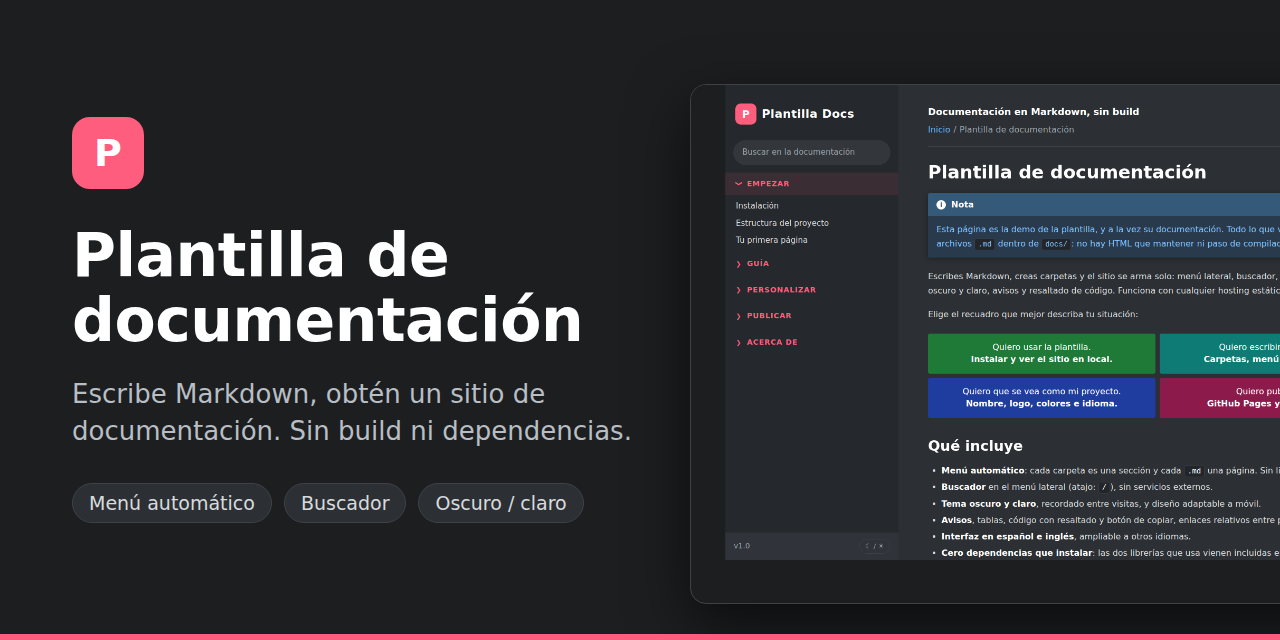
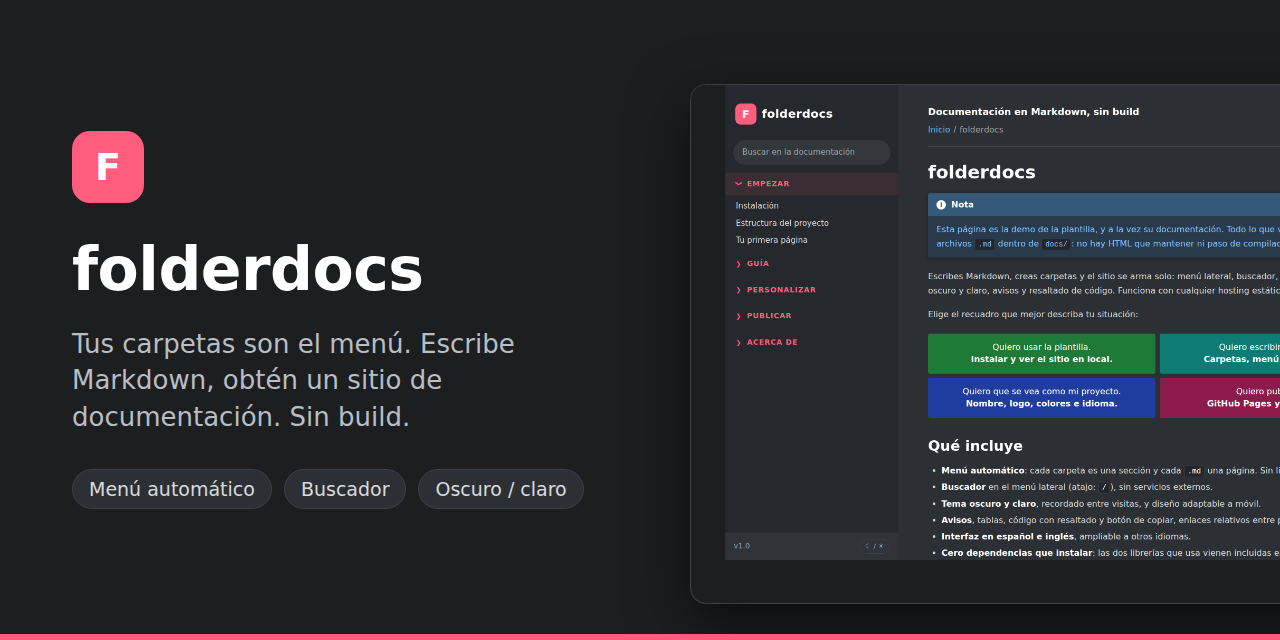
Renombra el proyecto a folderdocs
Actualiza el nombre y las URL en README, package.json, index.html,
configuración, documentación de la demo, CHANGELOG, CONTRIBUTING y las
plantillas de incidencias. Regenera las capturas y la imagen para redes.

diff --git a/index.html b/index.html
@@ -3,17 +3,17 @@
 <head>
   <meta charset="utf-8">
   <meta name="viewport" content="width=device-width, initial-scale=1">
-  <title>Plantilla de documentación en Markdown</title>
-  <meta name="description" content="Plantilla de documentación estática en Markdown: sin build ni dependencias, menú automático a partir de carpetas, buscador y modo oscuro/claro. Lista para GitHub Pages.">
+  <title>folderdocs: documentación en Markdown sin build</title>
+  <meta name="description" content="folderdocs es una plantilla de documentación estática en Markdown: sin build ni dependencias, menú automático a partir de carpetas, buscador y modo oscuro/claro. Lista para GitHub Pages.">
   <meta name="theme-color" content="#25282c">
   <link rel="icon" type="image/svg+xml" href="assets/img/favicon.svg">
 
   <!-- Al publicar tu sitio, cambia estas URL por las de tu dominio -->
   <meta property="og:type" content="website">
-  <meta property="og:title" content="Plantilla de documentación en Markdown">
+  <meta property="og:title" content="folderdocs: documentación en Markdown sin build">
   <meta property="og:description" content="Escribe archivos .md y obtén un sitio de documentación con menú automático, buscador y tema oscuro/claro. Sin build.">
-  <meta property="og:url" content="https://jrcesara7-bit.github.io/plantilla-documentacion/">
-  <meta property="og:image" content="https://jrcesara7-bit.github.io/plantilla-documentacion/assets/img/social-preview.png">
+  <meta property="og:url" content="https://jrcesara7-bit.github.io/folderdocs/">
+  <meta property="og:image" content="https://jrcesara7-bit.github.io/folderdocs/assets/img/social-preview.png">
   <meta name="twitter:card" content="summary_large_image">
 
   <link rel="stylesheet" href="assets/css/theme.css">

diff --git a/README.md b/README.md
@@ -1,14 +1,14 @@
 <div align="center">
 
-# Plantilla de documentación
+# folderdocs
 
-**Escribe archivos Markdown y obtén un sitio de documentación con menú automático, buscador y tema oscuro/claro. Sin build y sin dependencias que instalar.**
+**Plantilla de documentación en Markdown. Tus carpetas son el menú: escribe archivos y obtén un sitio con buscador y tema oscuro/claro. Sin build y sin dependencias que instalar.**
 
-[![CI](https://github.com/jrcesara7-bit/plantilla-documentacion/actions/workflows/ci.yml/badge.svg)](https://github.com/jrcesara7-bit/plantilla-documentacion/actions/workflows/ci.yml)
+[![CI](https://github.com/jrcesara7-bit/folderdocs/actions/workflows/ci.yml/badge.svg)](https://github.com/jrcesara7-bit/folderdocs/actions/workflows/ci.yml)
 [![Licencia: MIT](https://img.shields.io/badge/licencia-MIT-blue.svg)](LICENSE)
 ![Node 18+](https://img.shields.io/badge/node-%E2%89%A518-339933)
 
-[**Ver demo**](https://jrcesara7-bit.github.io/plantilla-documentacion/) · [Documentación](https://jrcesara7-bit.github.io/plantilla-documentacion/#/empezar/01-instalacion) · [Reportar un error](https://github.com/jrcesara7-bit/plantilla-documentacion/issues/new/choose) · [English](README.en.md)
+[**Ver demo**](https://jrcesara7-bit.github.io/folderdocs/) · [Documentación](https://jrcesara7-bit.github.io/folderdocs/#/empezar/01-instalacion) · [Reportar un error](https://github.com/jrcesara7-bit/folderdocs/issues/new/choose) · [English](README.en.md)
 
 <picture>
   <source media="(prefers-color-scheme: light)" srcset="docs/img/preview-light.png">
@@ -43,7 +43,7 @@ Necesitas [Node.js](https://nodejs.org) 18 o superior.
 
 ```bash
 # 1. Usa la plantilla (botón "Use this template" en GitHub) o clónala
-git clone https://github.com/jrcesara7-bit/plantilla-documentacion.git mi-documentacion
+git clone https://github.com/jrcesara7-bit/folderdocs.git mi-documentacion
 cd mi-documentacion
 
 # 2. Arranca el servidor local (regenera el menú en cada recarga)
@@ -73,7 +73,7 @@ docs/
 └── _borrador/                  lo que empieza con _ o . se ignora
 ```
 
-El menú se guarda en `docs/nav.json` (generado; no se edita a mano). Detalles en la [guía de organización](https://jrcesara7-bit.github.io/plantilla-documentacion/#/guia/01-organizar-contenido).
+El menú se guarda en `docs/nav.json` (generado; no se edita a mano). Detalles en la [guía de organización](https://jrcesara7-bit.github.io/folderdocs/#/guia/01-organizar-contenido).
 
 ## Personalización
 
@@ -86,7 +86,7 @@ El menú se guarda en `docs/nav.json` (generado; no se edita a mano). Detalles e
 
 ## Publicar
 
-El flujo `.github/workflows/pages.yml` publica el sitio en GitHub Pages en cada push a `main`. Solo tienes que ir a **Settings → Pages → Source → GitHub Actions**. Para Netlify, Cloudflare Pages u otros hosts, mira [Publicar](https://jrcesara7-bit.github.io/plantilla-documentacion/#/publicar/02-otros-hosts).
+El flujo `.github/workflows/pages.yml` publica el sitio en GitHub Pages en cada push a `main`. Solo tienes que ir a **Settings → Pages → Source → GitHub Actions**. Para Netlify, Cloudflare Pages u otros hosts, mira [Publicar](https://jrcesara7-bit.github.io/folderdocs/#/publicar/02-otros-hosts).
 
 ## Limitaciones
 
@@ -97,7 +97,7 @@ Se dicen aquí para que decidas con información:
 - Sin versionado de documentación ni selector de idioma integrado.
 - El HTML dentro de los `.md` no se filtra: no es apto para contenido de usuarios desconocidos.
 
-Más contexto en [Por qué esta plantilla](https://jrcesara7-bit.github.io/plantilla-documentacion/#/acerca/01-por-que-esta-plantilla).
+Más contexto en [Por qué esta plantilla](https://jrcesara7-bit.github.io/folderdocs/#/acerca/01-por-que-esta-plantilla).
 
 ## Desarrollo y contribuciones
 

diff --git a/README.en.md b/README.en.md
@@ -1,14 +1,14 @@
 <div align="center">
 
-# Documentation template
+# folderdocs
 
-**Write Markdown files and get a documentation site with an automatic menu, search and light/dark themes. No build step, nothing to install.**
+**Documentation template for Markdown. Your folders are the menu: write files and get a site with search and light/dark themes. No build step, nothing to install.**
 
-[![CI](https://github.com/jrcesara7-bit/plantilla-documentacion/actions/workflows/ci.yml/badge.svg)](https://github.com/jrcesara7-bit/plantilla-documentacion/actions/workflows/ci.yml)
+[![CI](https://github.com/jrcesara7-bit/folderdocs/actions/workflows/ci.yml/badge.svg)](https://github.com/jrcesara7-bit/folderdocs/actions/workflows/ci.yml)
 [![License: MIT](https://img.shields.io/badge/license-MIT-blue.svg)](LICENSE)
 ![Node 18+](https://img.shields.io/badge/node-%E2%89%A518-339933)
 
-[**Live demo**](https://jrcesara7-bit.github.io/plantilla-documentacion/) · [Report a bug](https://github.com/jrcesara7-bit/plantilla-documentacion/issues/new/choose) · [Español](README.md)
+[**Live demo**](https://jrcesara7-bit.github.io/folderdocs/) · [Report a bug](https://github.com/jrcesara7-bit/folderdocs/issues/new/choose) · [Español](README.md)
 
 <picture>
   <source media="(prefers-color-scheme: light)" srcset="docs/img/preview-light.png">
@@ -45,7 +45,7 @@ You need [Node.js](https://nodejs.org) 18 or later.
 
 ```bash
 # 1. Use the template ("Use this template" button on GitHub) or clone it
-git clone https://github.com/jrcesara7-bit/plantilla-documentacion.git my-docs
+git clone https://github.com/jrcesara7-bit/folderdocs.git my-docs
 cd my-docs
 
 # 2. Start the local server (it rebuilds the menu on every reload)

diff --git a/CONTRIBUTING.md b/CONTRIBUTING.md
@@ -4,8 +4,8 @@ Gracias por querer mejorar esta plantilla. Las contribuciones pequeñas y enfoca
 
 ## Antes de empezar
 
-- Para dudas de uso, usa [Discussions](https://github.com/jrcesara7-bit/plantilla-documentacion/discussions).
-- Para errores y propuestas, abre una [incidencia](https://github.com/jrcesara7-bit/plantilla-documentacion/issues/new/choose) y describe el caso. Si el cambio es grande, conviene comentarlo antes de escribir código.
+- Para dudas de uso, usa [Discussions](https://github.com/jrcesara7-bit/folderdocs/discussions).
+- Para errores y propuestas, abre una [incidencia](https://github.com/jrcesara7-bit/folderdocs/issues/new/choose) y describe el caso. Si el cambio es grande, conviene comentarlo antes de escribir código.
 - Es un proyecto pequeño y mantenido en el tiempo libre: puede tardar en responder.
 
 ## Principios del proyecto
@@ -22,8 +22,8 @@ Una propuesta encaja mejor si respeta esto:
 Necesitas Node.js 18 o superior.
 
 ```bash
-git clone https://github.com/TU-USUARIO/plantilla-documentacion.git
-cd plantilla-documentacion
+git clone https://github.com/TU-USUARIO/folderdocs.git
+cd folderdocs
 npm run dev        # http://localhost:8000
 npm test
 ```

diff --git a/docs/empezar/01-instalacion.md b/docs/empezar/01-instalacion.md
@@ -4,7 +4,7 @@ La plantilla es una carpeta con archivos estáticos. Solo necesitas **Node.js 18
 
 ## Opción A: usar como plantilla de GitHub
 
-1. Abre el [repositorio](https://github.com/jrcesara7-bit/plantilla-documentacion) y pulsa **Use this template** → **Create a new repository**.
+1. Abre el [repositorio](https://github.com/jrcesara7-bit/folderdocs) y pulsa **Use this template** → **Create a new repository**.
 2. Clona tu copia:
 
 ```bash
@@ -15,7 +15,7 @@ cd TU-REPO
 ## Opción B: clonar y empezar de cero
 
 ```bash
-git clone https://github.com/jrcesara7-bit/plantilla-documentacion.git mi-documentacion
+git clone https://github.com/jrcesara7-bit/folderdocs.git mi-documentacion
 cd mi-documentacion
 rm -rf .git && git init
 ```

diff --git a/docs/acerca/02-preguntas-frecuentes.md b/docs/acerca/02-preguntas-frecuentes.md
@@ -34,4 +34,4 @@ Usa la función de imprimir del navegador: la hoja de estilos oculta el menú y 
 
 ## ¿Dónde reporto un problema o propongo una mejora?
 
-En las [incidencias del repositorio](https://github.com/jrcesara7-bit/plantilla-documentacion/issues). La guía para contribuir está en `CONTRIBUTING.md`.
+En las [incidencias del repositorio](https://github.com/jrcesara7-bit/folderdocs/issues). La guía para contribuir está en `CONTRIBUTING.md`.

diff --git a/docs/acerca/01-por-que-esta-plantilla.md b/docs/acerca/01-por-que-esta-plantilla.md
@@ -11,7 +11,7 @@ Hay muy buenas herramientas de documentación. Esta ocupa un espacio concreto: *
 
 ## Comparación con otras opciones
 
-| | Plantilla Docs | Docsify | MkDocs | Docusaurus / VitePress |
+| | folderdocs | Docsify | MkDocs | Docusaurus / VitePress |
 | --- | --- | --- | --- | --- |
 | Paso de compilación | No | No | Sí | Sí |
 | Necesita instalar | Node (solo para el servidor local) | Nada (CDN) o npm | Python | Node + dependencias |

diff --git a/CHANGELOG.md b/CHANGELOG.md
@@ -25,4 +25,4 @@ Primera versión pública.
 - Flujos de GitHub Actions: pruebas, comprobación de `nav.json` y publicación en GitHub Pages.
 - Pruebas del generador de menú (`npm test`).
 
-[1.0.0]: https://github.com/jrcesara7-bit/plantilla-documentacion/releases/tag/v1.0.0
+[1.0.0]: https://github.com/jrcesara7-bit/folderdocs/releases/tag/v1.0.0

diff --git a/docs/index.md b/docs/index.md
@@ -1,4 +1,4 @@
-# Plantilla de documentación
+# folderdocs
 
 > [!NOTE]
 > Esta página es la demo de la plantilla, y a la vez su documentación. Todo lo que ves está escrito en archivos `.md` dentro de `docs/`: no hay HTML que mantener ni paso de compilación.
